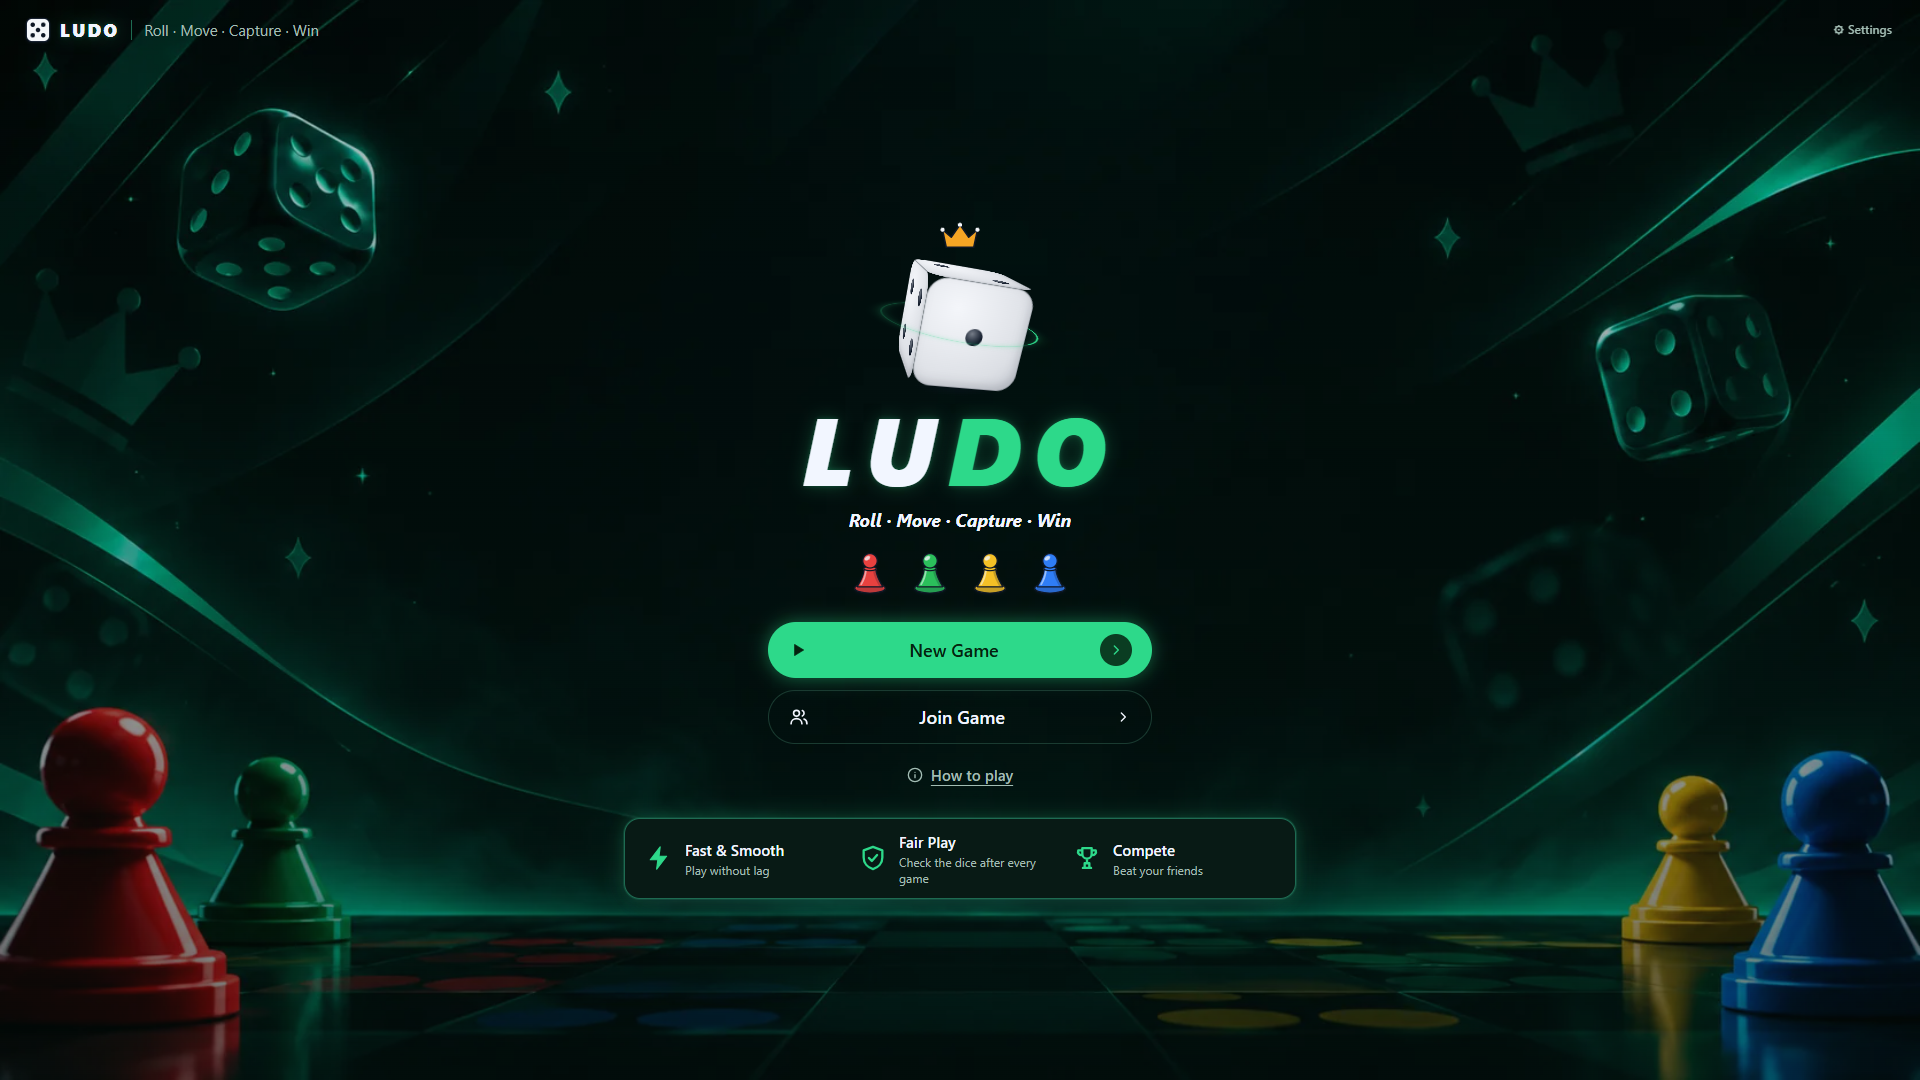
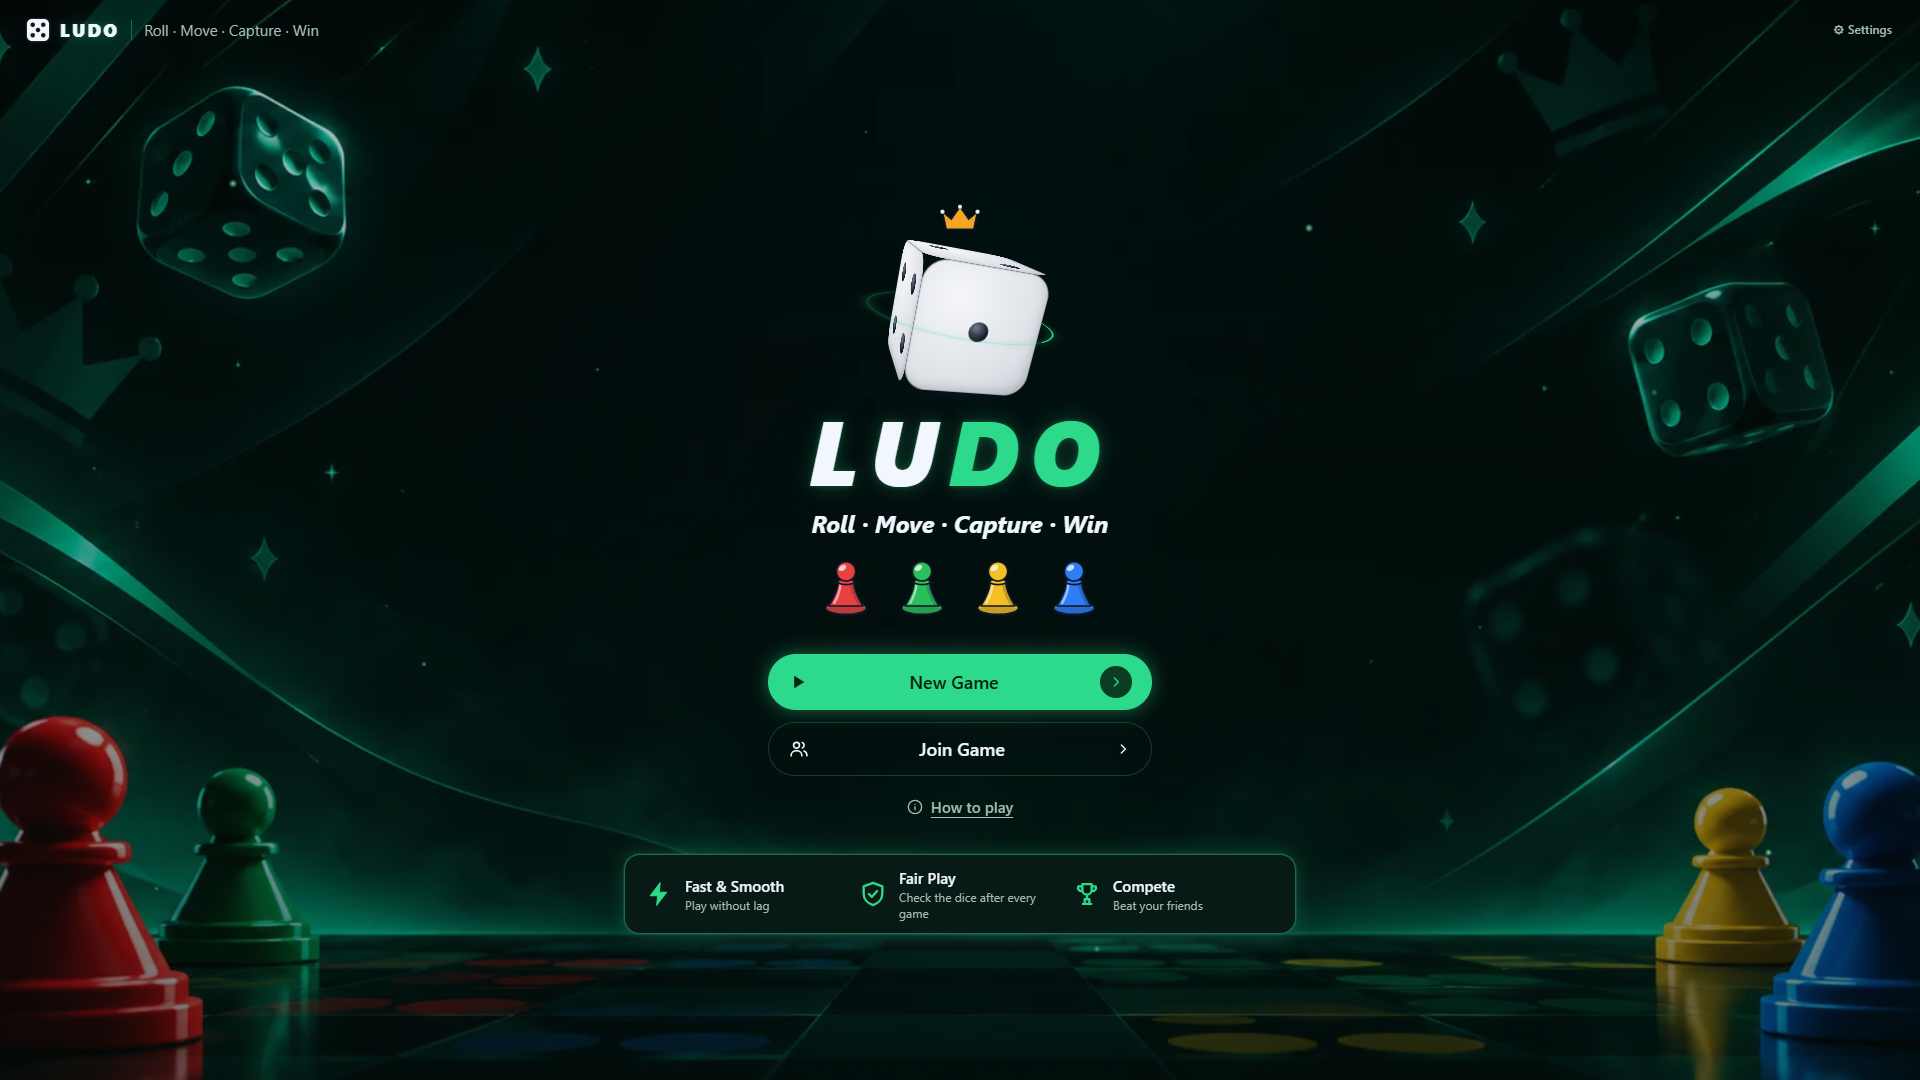
docs: record the front page fitting the window (NFR-SYS-10)
NFR-SYS-10-sizes.md gets a before-and-after table for ten window sizes,
two new screenshots (1366x657 and a 390x667 phone) and the three main
screenshots retaken. The motion write-up's follow-up note now points
there, and CHANGELOG and the NFR-SYS-10 row are updated.

diff --git a/docs/05-traceability.md b/docs/05-traceability.md
@@ -38,7 +38,7 @@ Status: `—` not started · `WIP` · `Done` · `Blocked (reason)` · `Dropped (
 | NFR-SYS-07 Not colour alone | P4, P12 | `docs/evidence/NFR-SYS-07-player-marks.png`: the `PlayerMark` row in grayscale, where shape and letter still tell the four players apart. `PlayerMark` and `Piece` read `PLAYER_IDENTITY` in `src/config/players.ts`. `src/screens/LobbyScreen.test.tsx` proves every lobby seat shows its mark, empty seats included. `src/components/StatusPanel.test.tsx` proves the game screen's cards show more than colour, and `docs/evidence/NFR-SYS-07-board-grayscale.png` shows the board and status panel in grayscale. `docs/evidence/NFR-SYS-07-move-highlights-grayscale.png` and `docs/evidence/NFR-SYS-07-capture-grayscale.png` show the move highlights, destination marker and dashed capture ring in grayscale. P9's capture and finish effects are movement, and the log uses names, so neither depends on colour. `docs/evidence/NFR-SYS-07-win-grayscale.png` shows the win screen in grayscale. The connection banner's two states differ in words and a spinner as well as the border colour, and `src/components/ConnectionBanner.test.tsx` checks the words. `docs/evidence/NFR-SYS-07-game-dark.png`, `docs/evidence/NFR-SYS-07-game-light.png`, `docs/evidence/NFR-SYS-07-win-dark.png` and `docs/evidence/NFR-SYS-07-win-light.png` show the board, status panel and win screen in grayscale in both themes. `docs/evidence/NFR-SYS-07-contrast.md` checks every text on 11 screens and dialogs in both themes against WCAG AA: none below, the closest 5.33:1. Since the visual refresh the pieces are glossy pawns whose white badge carries the player's shape (`src/components/Pawn.tsx`); the grayscale screenshots above were retaken with them, and `npm run e2e -- contrast` still passes in all five themes | Done |
 | NFR-SYS-08 Simple wording + keyboard | P4–P12 | `src/components/SegmentedControl.test.tsx`, `src/components/Dice.test.tsx`, `src/App.test.tsx` and `docs/evidence/NFR-SYS-08-kitchen-sink-checks.md` cover the controls on their own. `docs/evidence/FR-SYS-01-lobby-flow.md` records a keyboard-only run from the main screen through setup and the lobby to the game starting, and `docs/evidence/FR-SYS-09-game-screen-checks.md` records the Tab order and the `?` and Esc keys on the game screen. `src/interaction/useGameKeys.test.ts` covers `R`, `1`–`4`, `Enter`, `Esc` and `S`, and `docs/evidence/FR-SYS-02-dice-checks.md` shows rolling by `R` and Space with the die keeping focus. `docs/evidence/FR-SYS-03-move-checks.md` records a whole game, from the main screen to a winner, played with only the keyboard, and `docs/evidence/FR-SYS-06-win-restart-checks.md` records the game menu, the confirm dialog and the win screen used by keyboard alone. `src/App.test.tsx` proves the second-tab card takes the keyboard focus, and `docs/evidence/NFR-SYS-04-resilience-checks.md` records another whole game played by keyboard alone on the P11 code. Player-facing text is in `src/feedback/copy.ts`. `docs/evidence/NFR-SYS-08-keyboard.md` records the P12 run with no mouse, in Chrome and Firefox: setup, waiting room, roll, choose, move, restart, a whole game, Play again and leave. It also has a wording review of `src/feedback/copy.ts` that found nothing to change | Done |
 | NFR-SYS-09 Chrome / Firefox / Edge | P12 | `docs/evidence/NFR-SYS-09-browsers.md`: start, roll, move and win pass with no console errors in Chrome 157, Edge 157 and Firefox 160. In Firefox a whole keyboard-only game, the invalid-input checks and the error screen pass too | Done |
-| NFR-SYS-10 Window sizes | P6, P12 | `docs/evidence/NFR-SYS-10-1024-wide.png`, `docs/evidence/NFR-SYS-10-1366-wide.png` and `docs/evidence/NFR-SYS-10-1920-wide.png`, with measurements in `docs/evidence/FR-SYS-09-game-screen-checks.md`: the game screen has no scrolling and every part in view. `docs/evidence/FR-SYS-03-move-checks.md` re-measures the game screen with the longest list of moves, `docs/evidence/FR-SYS-05-event-checks.md` with a full message log, and `docs/evidence/FR-SYS-06-win-restart-checks.md` the win screen. `docs/evidence/NFR-SYS-10-sizes.md` and its 12 screenshots cover the main, setup, waiting room and game screens at 1024×768, 1366×768 and 1920×1080: no scrolling and every control in view | Done |
+| NFR-SYS-10 Window sizes | P6, P12 | `docs/evidence/NFR-SYS-10-1024-wide.png`, `docs/evidence/NFR-SYS-10-1366-wide.png` and `docs/evidence/NFR-SYS-10-1920-wide.png`, with measurements in `docs/evidence/FR-SYS-09-game-screen-checks.md`: the game screen has no scrolling and every part in view. `docs/evidence/FR-SYS-03-move-checks.md` re-measures the game screen with the longest list of moves, `docs/evidence/FR-SYS-05-event-checks.md` with a full message log, and `docs/evidence/FR-SYS-06-win-restart-checks.md` the win screen. `docs/evidence/NFR-SYS-10-sizes.md` and its 12 screenshots cover the main, setup, waiting room and game screens at 1024×768, 1366×768 and 1920×1080: no scrolling and every control in view. The front page now fits the window with no scrolling at ten sizes, including laptop browser windows (1366×657, 1280×600) and phones, and the sizes check fails if it ever scrolls ("The front page fits the window" in `docs/evidence/NFR-SYS-10-sizes.md`) | Done |
 | NFR-SYS-11 Rules in config | P1, P5, P6 | `src/config/geometry.test.ts` covers board geometry for all 4 colours. `mock-server/server.test.ts` proves `POST /debug/rules` changes `safeSquares` for the next match. `src/components/RulesSummary.test.tsx` proves the rules text follows `RuleConfig`. `src/App.test.tsx` proves the lobby and the game screen show the room's own rules, not the standard ones. `src/components/BoardGrid.test.tsx` proves stars follow the list they are given. `docs/evidence/NFR-SYS-11-default-board.png`, `docs/evidence/NFR-SYS-11-changed-board.png`, `docs/evidence/NFR-SYS-11-default-rules.png` and `docs/evidence/NFR-SYS-11-changed-rules.png` show `POST /debug/rules` moving the stars and changing the rules text with no code change | Done |
 | NFR-SYS-12 Defined interfaces | P2, P3 | `src/store/gameStore.test.ts` runs the store against `FakeAdapter` with no network. `src/adapter/LgsAdapter.test.ts` runs the real adapter over real sockets. `eslint.config.js` blocks `socket.io-client` outside `src/adapter/` and blocks `src/` from importing the mock. `docs/evidence/NFR-SYS-12-connected-to-mock.png` shows the app connected to the mock | Done |
 | NFR-SYS-13 Maintainable | all | PRs #1 to #23, #26 and #27 are merged for P0 to P12, the P2 fix, a P12 follow-up for Firefox, a flaky-test fix, a player-card fix, colour choice, the contract spec and six docs updates; folder layout followed. None had a recorded review: the first twenty-two when checked on 2026-11-16, then #23, #26 and #27, and our D3 names PR reviews as the proof. Since #28, GitHub runs typecheck, lint, build, tests and a browser smoke test on every PR and on `main` (`.github/workflows/checks.yml`); its first run passed on #28 on 2026-11-21. Still needed: PR reviews (#24 and #25 are waiting for one) | WIP |

diff --git a/CHANGELOG.md b/CHANGELOG.md
@@ -21,3 +21,4 @@
 - After P14: a visual refresh. Glossy pawns whose white badge keeps each player's shape, a 3D-looking die drawn in CSS that shows only the server's value, yards with starting spots, gold safe stars and a home badge, glowing panels on a deep backdrop, and a redesigned win screen with the winner's pawn and a podium (FR-SYS-06, FR-SYS-10, NFR-SYS-05, NFR-SYS-07).
 - After P14: the emerald look, from the team's mockups. The Dark theme turns green and shows the background picture; the front page gets a big 3D die you can drag or spin, the LUDO title and a feature strip; New Game becomes one card with icons; and the game's die becomes a real cube with pips on every face that settles with the server's value toward the player. It also fixes the CSS die from the visual refresh, whose side faces Tailwind had dropped (FR-SYS-01, FR-SYS-02, FR-SYS-10, NFR-SYS-05, NFR-SYS-08).
 - After P14: motion and new sounds. The front page comes in piece by piece: the die drops in, the letters of LUDO rise one at a time, the pawns hop when pointed at, lights drift, and the background and die lean with the pointer. Buttons lift and glow under the pointer, primary buttons catch a sweep of light, cards light up where the pointer is, the choice highlight glides between options, and screens and dialogs ease in. In the game, the player whose turn it is glows, the pieces that can move bob, a chosen piece lifts, a walking piece hops on every square, a captured piece spins home with a burst, a piece reaching home throws sparks, the die squashes when pressed and flashes when it lands, counts flip, and new messages slide in. The win screen's crown drops on and the podium rises. All of it moves only transform and opacity, follows Animations Fast, and stops completely with Animations Off or the device's reduced-motion setting, the endless loops included. The placeholder tones become real sounds made by `scripts/make-sounds.py`: a dice rattle, a wooden tap, a swoosh and thud, chimes, a fanfare and a soft "no" (FR-SYS-05, FR-SYS-10, NFR-SYS-01).
+- After P14: the front page fits the window, so it never scrolls. It used to need 747 px of height, more than most laptop browsers have. Now the die, title, pawns and gaps follow the window's height, so it fits laptop and phone windows and grows on a big screen; in a very short window the feature strip steps aside. The sizes check now fails if the front page scrolls at any of ten window sizes (NFR-SYS-10).

diff --git a/docs/evidence/NFR-SYS-10-sizes.md b/docs/evidence/NFR-SYS-10-sizes.md
@@ -20,3 +20,29 @@ The win screen was measured in P10 (`FR-SYS-06-win-restart-checks.md`), and the 
 full message log in P9 (`FR-SYS-05-event-checks.md`).
 
 Phones are TO CONFIRM (`00-requirements.md` §5) and weren't checked.
+
+## The front page fits the window (2026-11-22)
+
+The front page used to need 747 px of height whatever the window, so it scrolled in most laptop
+browsers: a 1366×768 or 1280×720 screen leaves only about 600 to 660 px once the browser's own bars
+are counted. Now its die, title, pawns and gaps follow the window's height (`.front-page` in
+`src/styles/theme.css`), so it fits from a short window up to a big screen, where it grows to fill
+the space. Below 600 px tall, or under 760 px on a phone, the feature strip steps aside so the
+buttons still fit. `npm run e2e -- sizes` now fails if the front page scrolls at any of these:
+
+| Window | Before | After |
+|---|---|---|
+| 1920×1080 | fits, content small | fits, die 112 → 135 px, title 96 → 91 px |
+| 1536×730 | scrolls (747 px) | fits |
+| 1366×768 | fits | fits |
+| 1366×657 | scrolls (747 px) | fits, with the feature strip |
+| 1280×720 | scrolls (747 px) | fits |
+| 1280×600 | scrolls (747 px) | fits, with the feature strip |
+| 1280×480 | scrolls | fits, strip hidden |
+| 1024×768 | fits | fits |
+| 390×844 (phone) | fits | fits |
+| 360×640 (phone) | scrolls | fits, strip hidden |
+
+Screenshots: `NFR-SYS-10-main-1366x657.png` and `NFR-SYS-10-main-390x667.png`, and the three
+`NFR-SYS-10-main-*.png` above, retaken. A page zoomed in the browser may still scroll, which WCAG
+allows; the sizes keep their minimums so zoomed text still grows.

diff --git a/docs/evidence/FR-SYS-10-motion-checks.md b/docs/evidence/FR-SYS-10-motion-checks.md
@@ -113,6 +113,6 @@ so none runs into the next. Sound still waits for the first press and does nothi
 - Firefox: the `motion` mode needs the reduced-motion emulation that only Chrome and Edge offer.
   The other modes cover Firefox as before.
 - How the sounds sound. That needs ears; the numbers above only show they are clean and fit.
-- At 1280×720 the front page is a little taller than the window, so it scrolls slightly when
-  settled. That was already so before this change (the sizes check covers 768 px and up), and is
-  left for a follow-up.
+- At 1280×720 the front page was a little taller than the window, so it scrolled slightly when
+  settled. That was already so before this change. Fixed afterwards: see "The front page fits the
+  window" in `NFR-SYS-10-sizes.md`.
